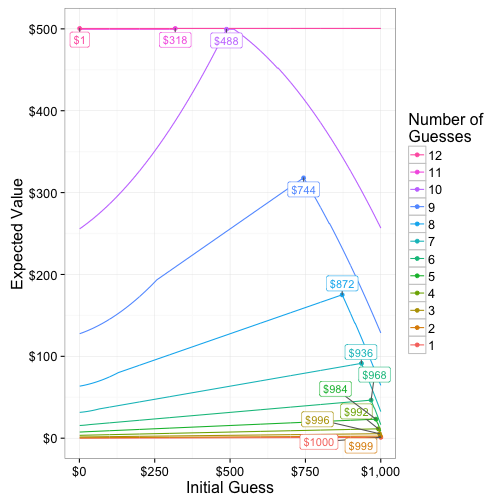
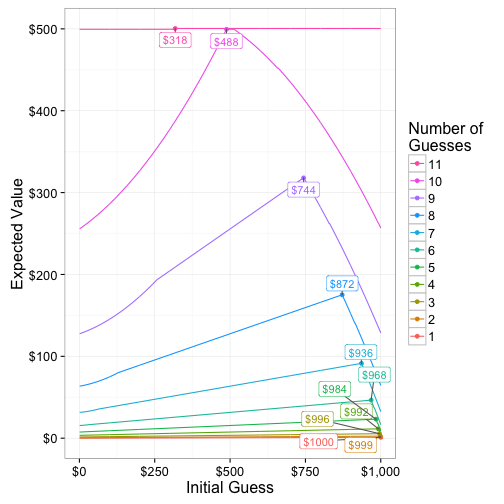
Updated trench coat man solution
Advice from Twitter

diff --git a/_posts/2016-03-20-can-you-best-the-mysterious-man-in-the-trench-coat.md b/_posts/2016-03-20-can-you-best-the-mysterious-man-in-the-trench-coat.md
@@ -326,7 +326,7 @@ guess_money_mult <- function(n_tries = 1, min_val = 1, max_val = 1000){
   return(both)
 }
 
-tries_all <- lapply(1:12, function(x) guess_money_mult(n_tries = x)) %>%
+tries_all <- lapply(1:11, function(x) guess_money_mult(n_tries = x)) %>%
   bind_rows
 {% endhighlight %}
 
@@ -363,8 +363,33 @@ ggplot(tries_all_exp, aes(guess, exp_val,
 
 ![center](/figs/2016-03-20-can-you-best-the-mysterious-man-in-the-trench-coat/exp_val_all_plot-1.png)
 
-The fewer guesses you receive, the higher your initial guess must be to maximize your expected winnings. If you had 12 or more guesses, it simply does not matter what your initial guess is: you can always win using my proposed strategy.
+The fewer guesses you receive, the higher your initial guess must be to maximize your expected winnings. If you had <s>12</s> 11 or more guesses, it simply does not matter what your initial guess is: you can always win using my proposed strategy.
 
+UPDATE: 3-21-16 9:37 pm
+
+Thanks to Peter Owen for his helpful comment:
+
+<blockquote class="twitter-tweet" data-lang="en"><p lang="en" dir="ltr"><a href="https://twitter.com/soltofbc">@soltofbc</a> <a href="https://twitter.com/FiveThirtyEight">@FiveThirtyEight</a> <a href="https://twitter.com/ollie">@ollie</a> so long as you start within the right range. 11 guesses and you&#39;ll always win with that method. I think...</p>&mdash; Peter Owen (@_PeteOwen) <a href="https://twitter.com/_PeteOwen/status/712087148003004416">March 22, 2016</a></blockquote>
+<script async src="//platform.twitter.com/widgets.js" charset="utf-8"></script>
+
+
+{% highlight r %}
+ggplot(tries_all_exp, aes(guess, win_rate,
+                          group = n_tries, color = n_tries)) +
+  geom_line() +
+  scale_x_continuous(labels = scales::dollar) +
+  scale_y_continuous(labels = scales::percent) +
+  scale_color_discrete(guide = guide_legend(reverse = TRUE)) +
+  labs(x = "Initial Guess",
+       y = "Win Rate",
+       color = "Number of\nGuesses",
+       group = "Number of\nGuesses") +
+  theme_bw(base_size = 16)
+{% endhighlight %}
+
+![center](/figs/2016-03-20-can-you-best-the-mysterious-man-in-the-trench-coat/exp_val_all_win-1.png)
+
+11 is the minimum number of guesses needed to guarantee victory.
 
 
 
